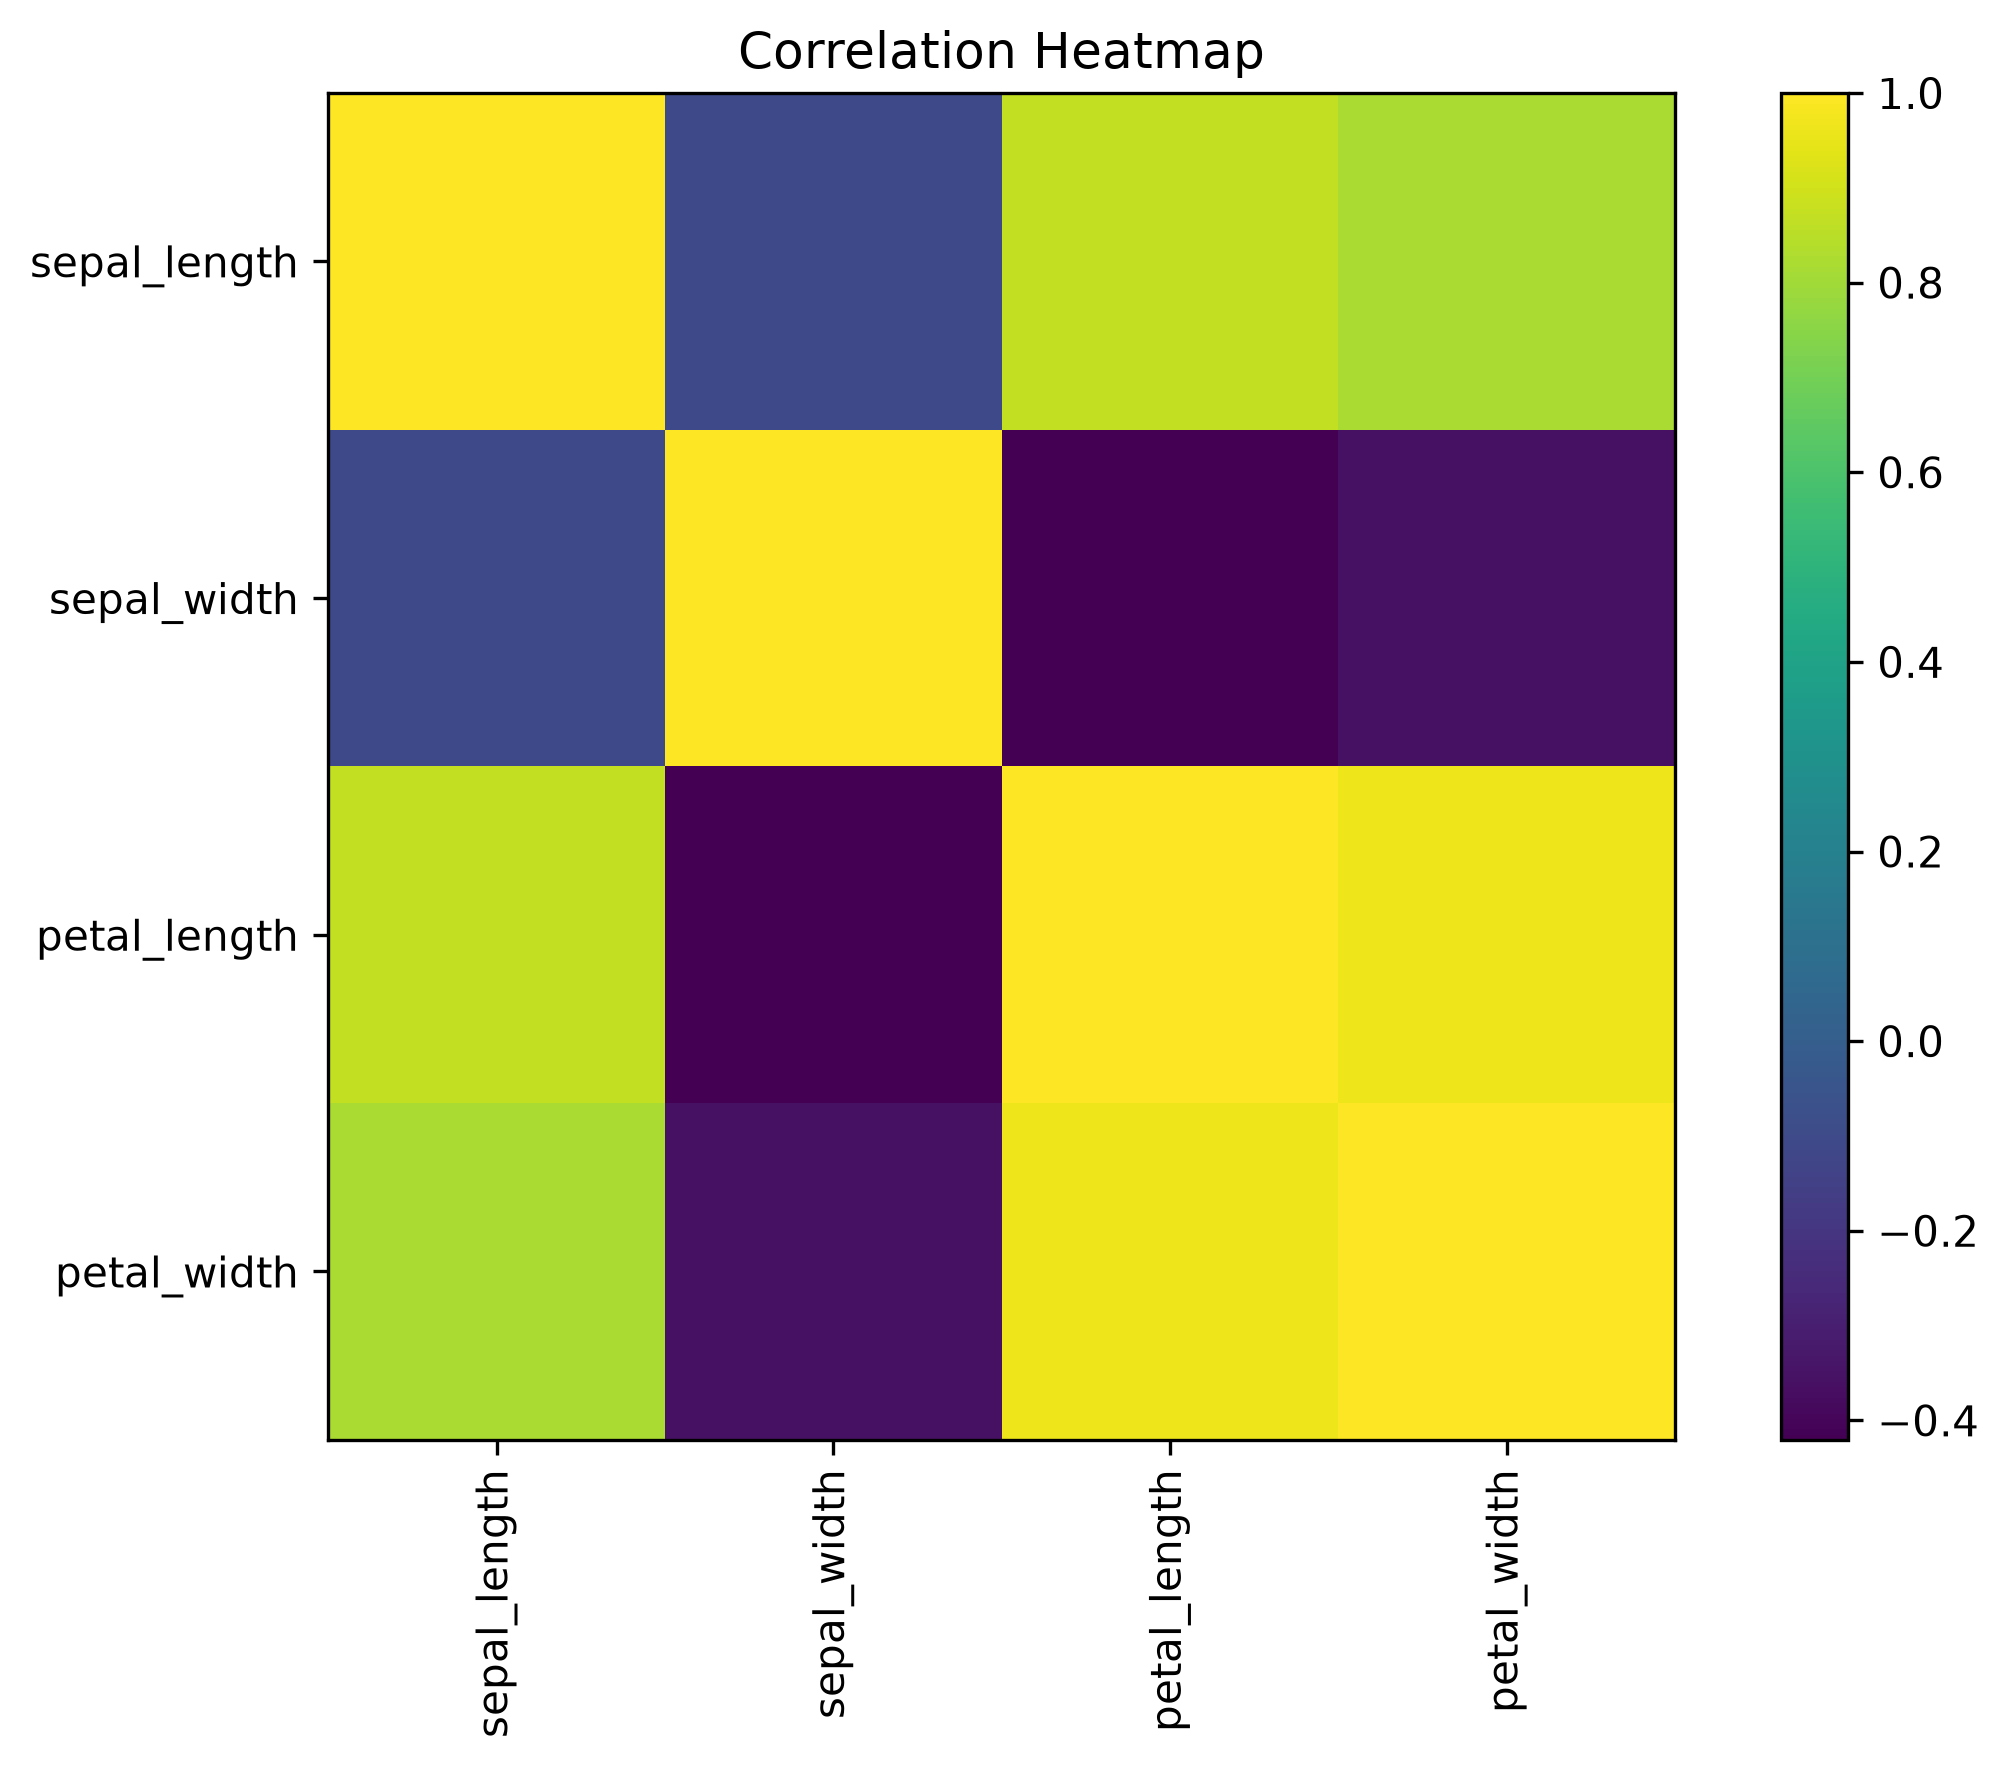
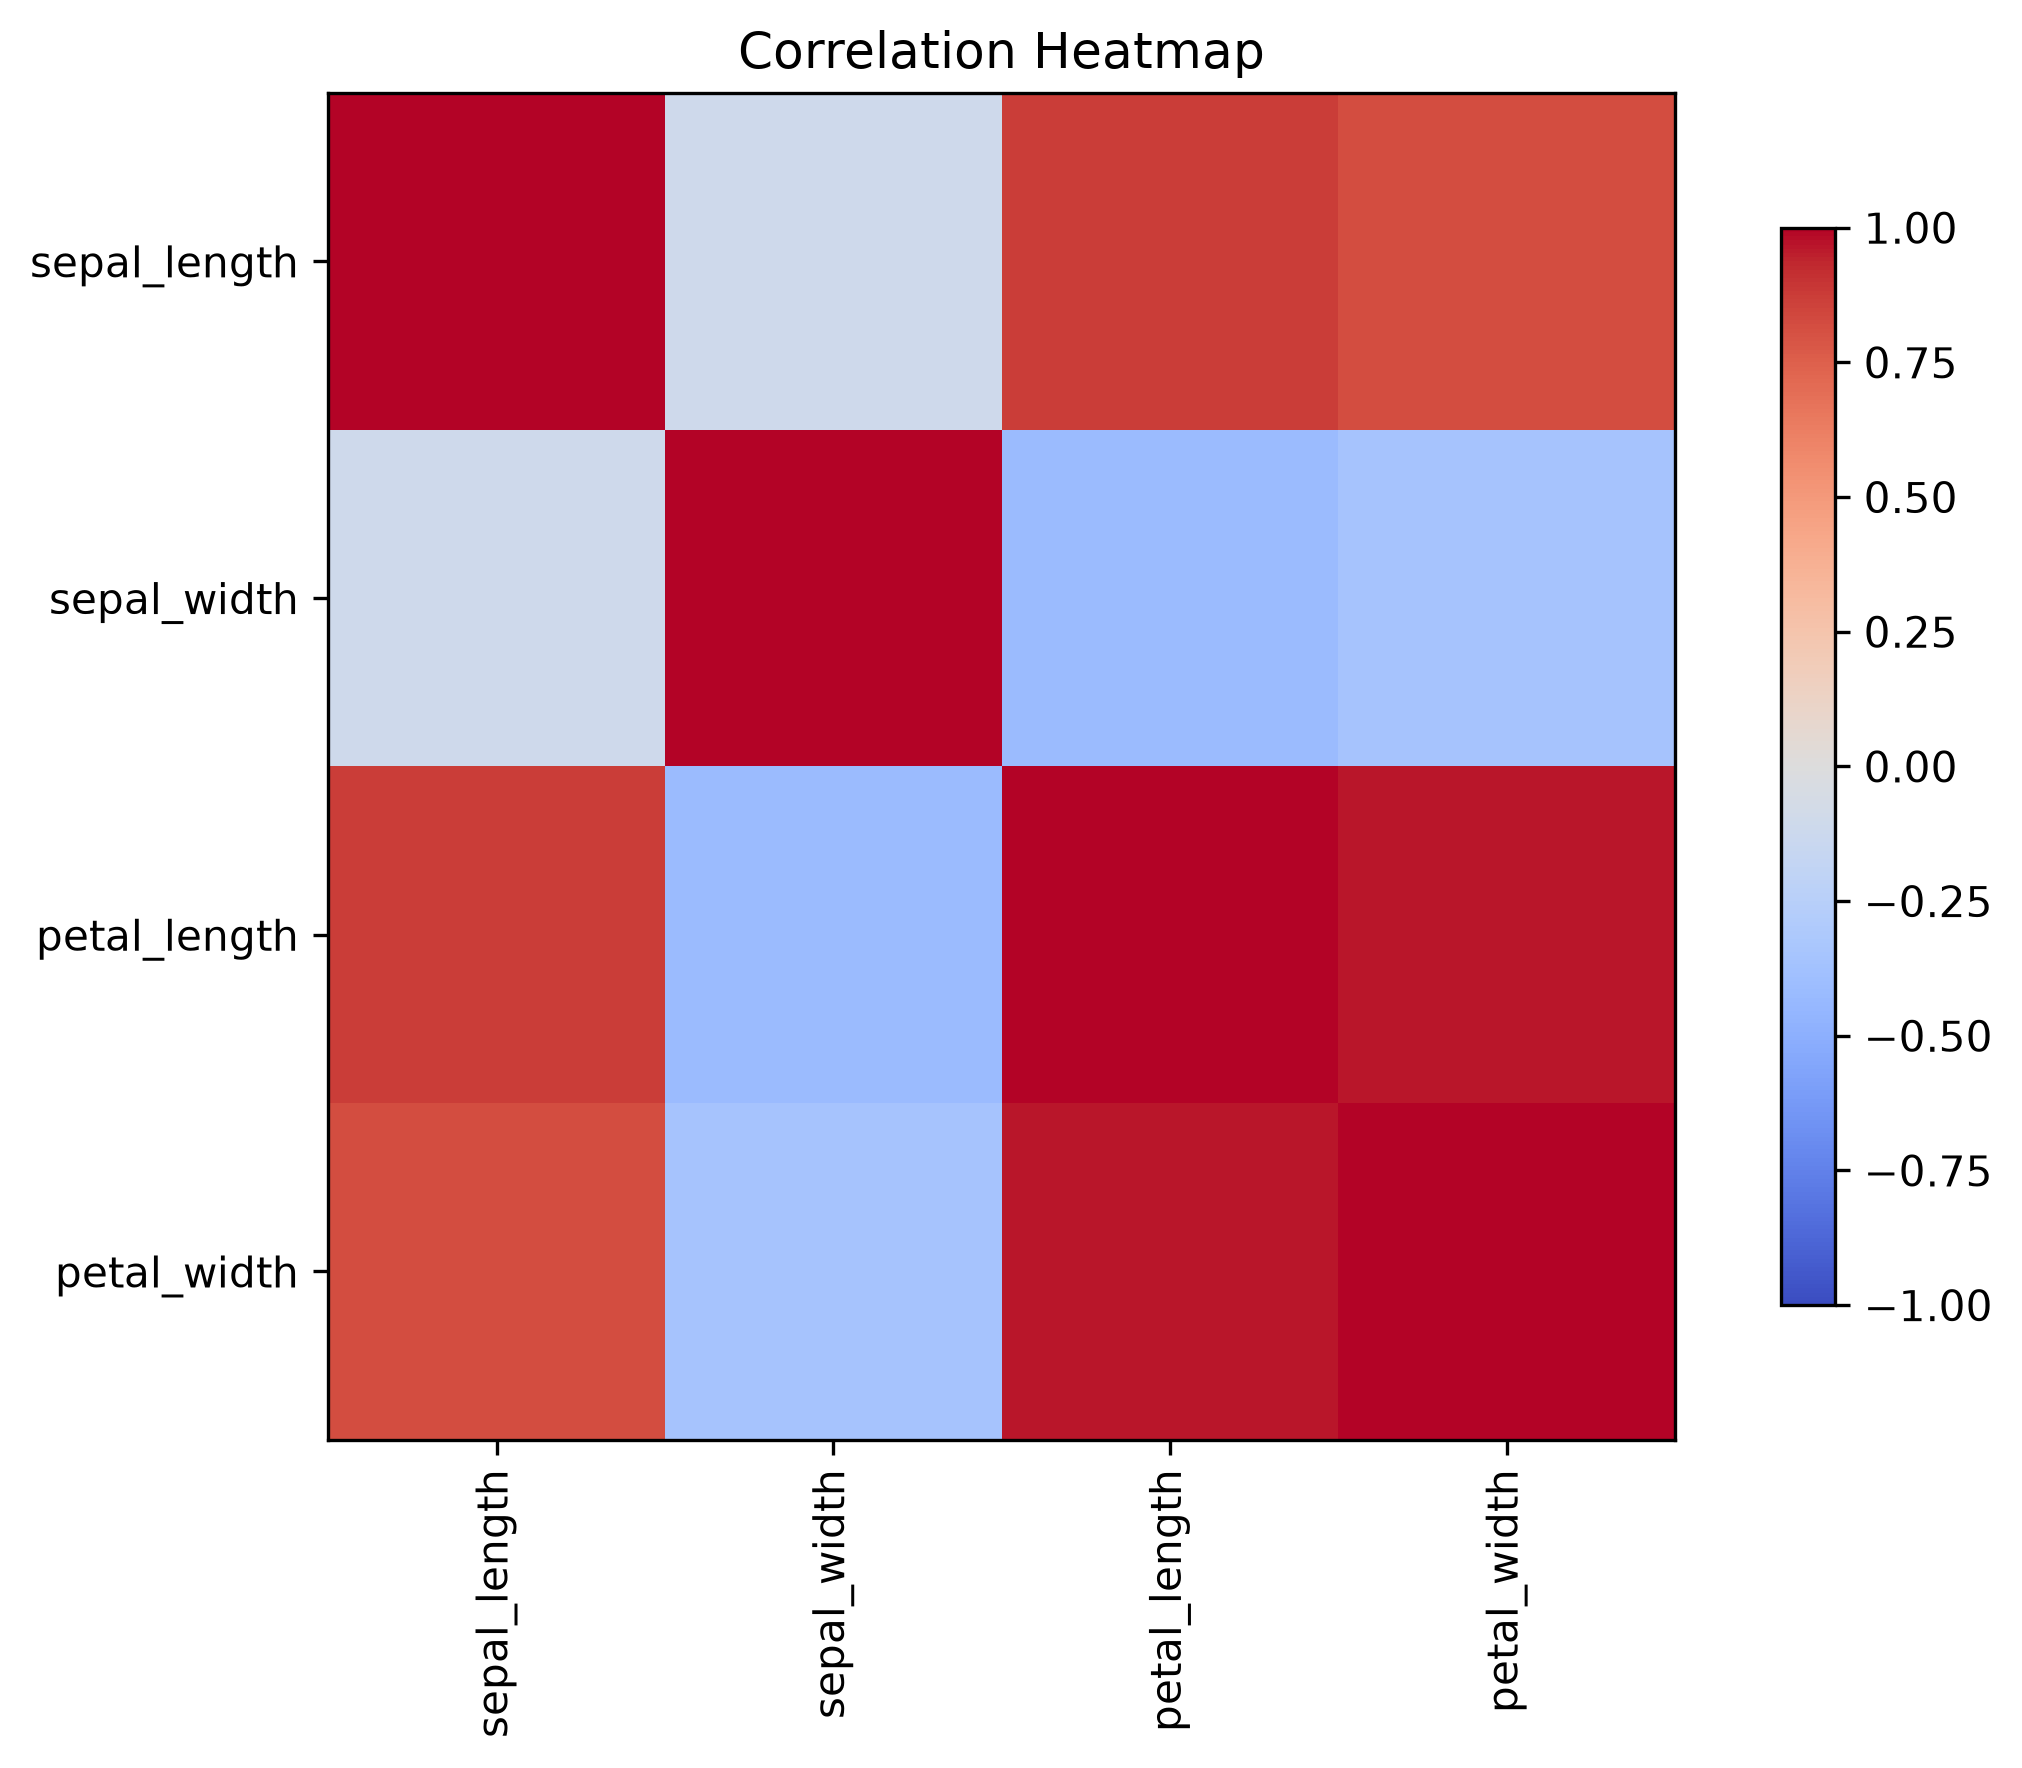
correlation heatmap

diff --git a/backend/app/services/visualization_service.py b/backend/app/services/visualization_service.py
@@ -247,11 +247,16 @@ def generate_correlation_heatmap(df):
 
     corr = numeric_df.corr()
 
-    plt.figure(figsize=(8, 6))
+    plt.figure(figsize=(8, 6), facecolor="white")
 
-    plt.imshow(corr)
+    plt.imshow(
+        corr,
+        cmap="coolwarm",
+        vmin=-1,
+        vmax=1,
+    )
 
-    plt.colorbar()
+    plt.colorbar(shrink=0.8)
 
     plt.xticks(
         range(len(corr.columns)),
@@ -265,6 +270,8 @@ def generate_correlation_heatmap(df):
     )
 
     plt.title("Correlation Heatmap")
+
+    plt.grid(False)
 
     plt.tight_layout()
 
